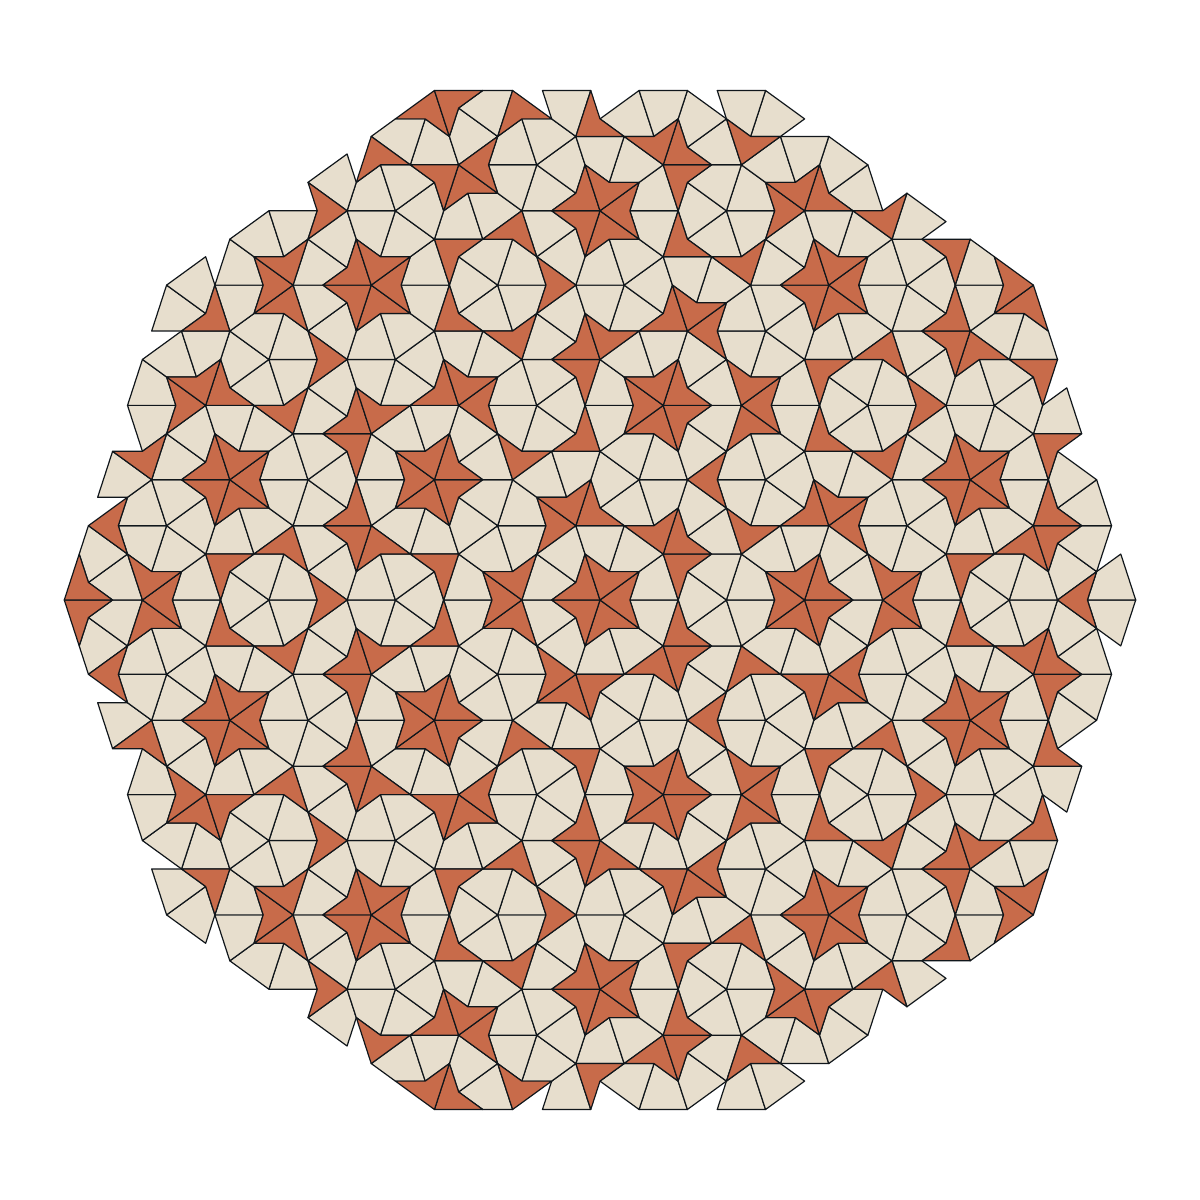
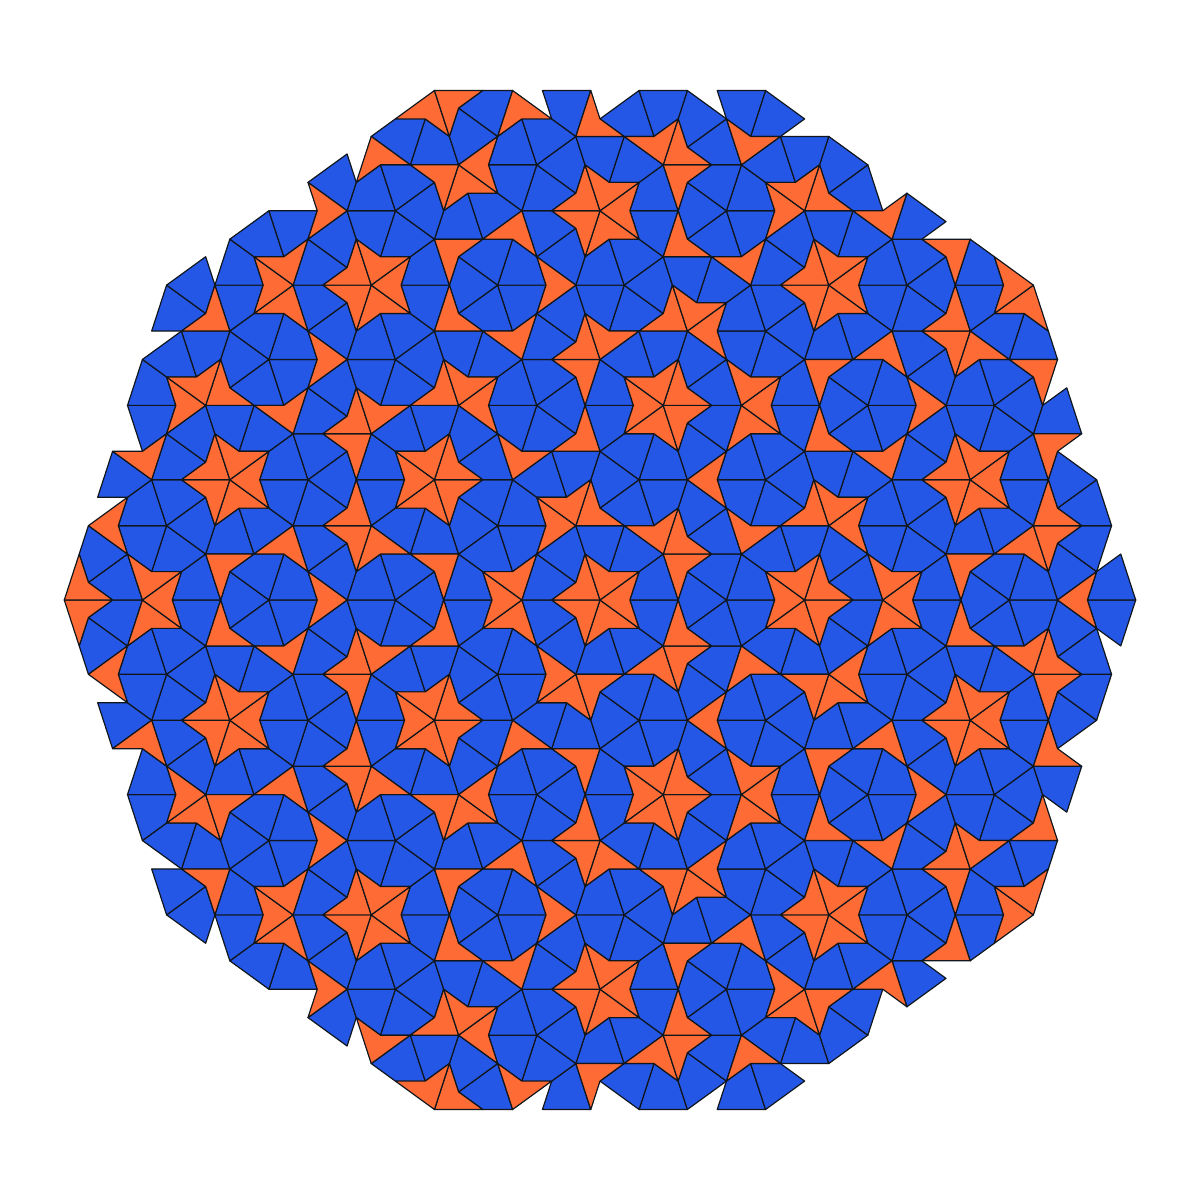
Brighten the tiling palette

diff --git a/src/pdf.cpp b/src/pdf.cpp
@@ -34,8 +34,8 @@ struct Colour {
 
 constexpr Colour paper{1.0, 1.0, 1.0};
 constexpr Colour ink{16.0 / 255.0, 22.0 / 255.0, 27.0 / 255.0};
-constexpr Colour limestone{231.0 / 255.0, 222.0 / 255.0, 205.0 / 255.0};
-constexpr Colour copper{200.0 / 255.0, 107.0 / 255.0, 74.0 / 255.0};
+constexpr Colour cobalt{36.0 / 255.0, 87.0 / 255.0, 230.0 / 255.0};
+constexpr Colour tangerine{1.0, 107.0 / 255.0, 53.0 / 255.0};
 
 void include(Bounds& bounds, Point point) {
     bounds.minimum_x = std::min(bounds.minimum_x, point.real());
@@ -62,7 +62,7 @@ void append_object(std::string& document, std::vector<std::size_t>& offsets,
     document += "endobj\n";
 }
 
-[[nodiscard]] bool limestone_fill(Shape shape) {
+[[nodiscard]] bool cobalt_fill(Shape shape) {
     return shape == Shape::kite || shape == Shape::thick_rhomb;
 }
 
@@ -102,10 +102,10 @@ void append_object(std::string& document, std::vector<std::size_t>& offsets,
     set_colour(content, ink, "RG");
     content << stroke_width << " w\n1 J\n1 j\n";
 
-    for (const auto use_limestone : {true, false}) {
-        set_colour(content, use_limestone ? limestone : copper, "rg");
+    for (const auto use_cobalt : {true, false}) {
+        set_colour(content, use_cobalt ? cobalt : tangerine, "rg");
         for (const auto& tile : tiles) {
-            if (limestone_fill(tile.shape) != use_limestone) {
+            if (cobalt_fill(tile.shape) != use_cobalt) {
                 continue;
             }
             content << page_x(tile.vertices[0]) << ' ' << page_y(tile.vertices[0])

diff --git a/tests/test.cpp b/tests/test.cpp
@@ -192,8 +192,8 @@ void check_pdf(aper::Tiling tiling, std::string_view title) {
     CHECK(pdf.find("1.0000 1.0000 1.0000 rg\n0 0 720.0000 720.0000 re f") !=
           std::string::npos);
     CHECK(pdf.find("0.0627 0.0863 0.1059 RG") != std::string::npos);
-    CHECK(pdf.find("0.9059 0.8706 0.8039") != std::string::npos);
-    CHECK(pdf.find("0.7843 0.4196 0.2902") != std::string::npos);
+    CHECK(pdf.find("0.1412 0.3412 0.9020") != std::string::npos);
+    CHECK(pdf.find("1.0000 0.4196 0.2078") != std::string::npos);
     CHECK(pdf.find("nan") == std::string::npos);
     CHECK(pdf.find("inf") == std::string::npos);
     CHECK(occurrences(pdf, " m\n") == tiles.size());
